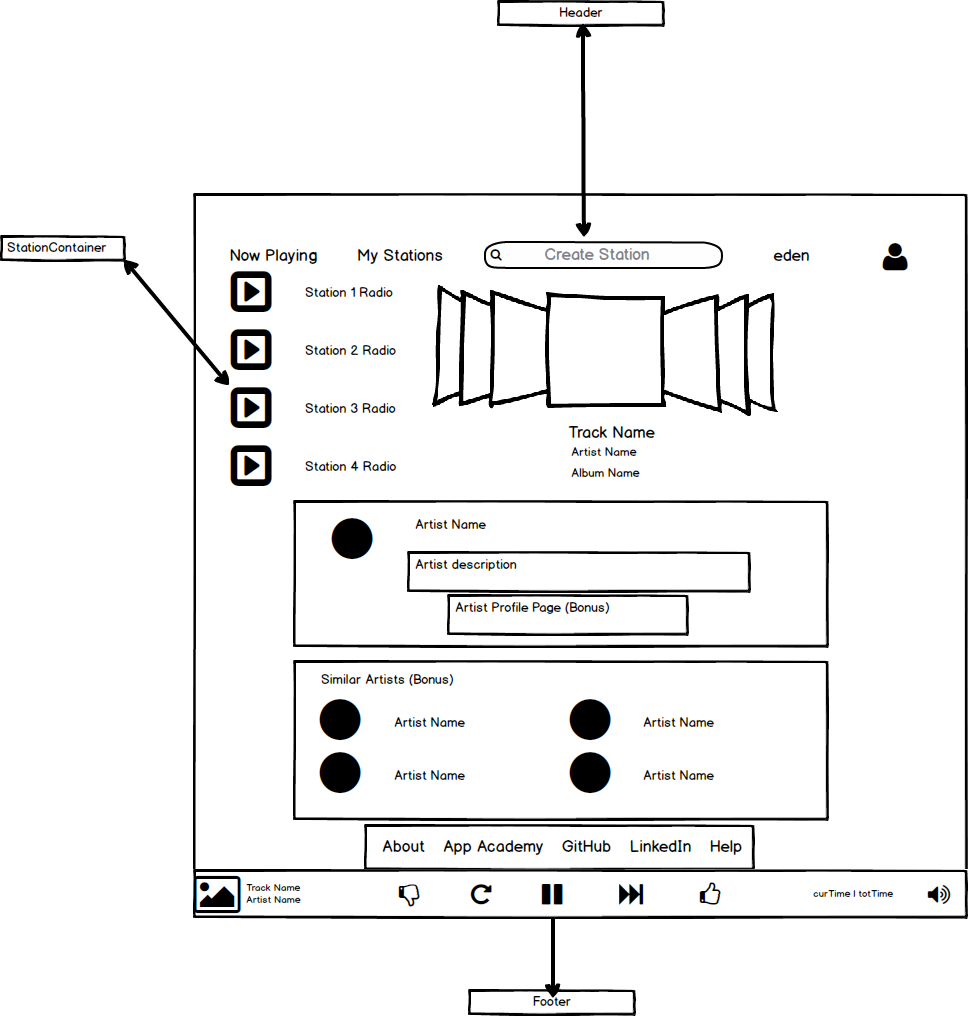
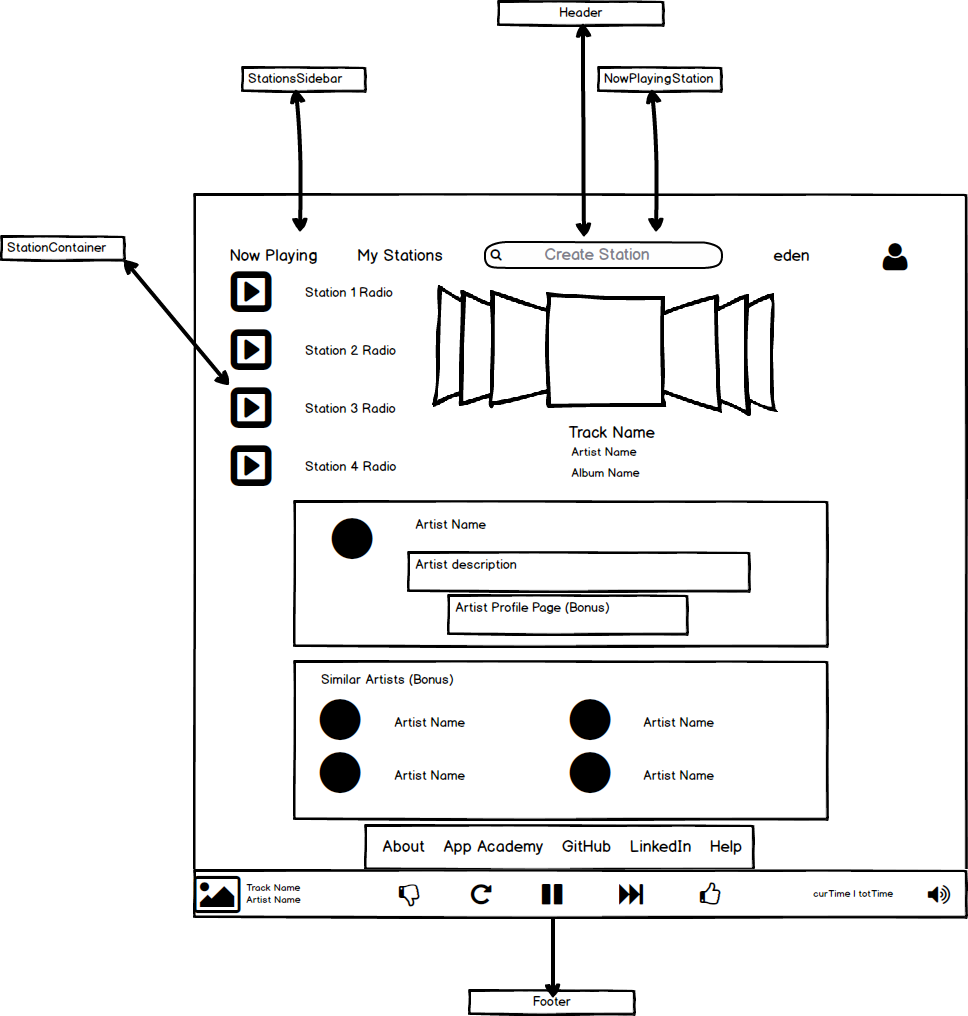
Update components

Changed region(s): [[0.6198, 0.061, 0.7438, 0.2441], [0.2479, 0.061, 0.4029, 0.122]]

diff --git a/frontend/entry.jsx b/frontend/entry.jsx
@@ -1,6 +1,13 @@
+// Libraries
 import React from 'react';
 import ReactDOM from 'react-dom';
 
+// Components
+import Root from './components/root';
+import configureStore from './store/store';
+
 document.addEventListener('DOMContentLoaded', () => {
-  console.log('yay im here');
+  const store = configureStore();
+  const root = document.getElementById('root');
+  return ReactDOM.render(<Root store={store} />, root);
 });

diff --git a/frontend/store/store.js b/frontend/store/store.js
@@ -1,0 +1,14 @@
+// Libraries
+import { createStore, applyMiddleware } from 'redux';
+import rootReducer from '../reducers/root_reducer';
+import thunk from 'redux-thunk';
+
+const configureStore = (preloadedState = {}) => (
+  createStore(
+    rootReducer,
+    preloadedState,
+    applyMiddleware(thunk)
+  )
+)
+
+export default configureStore

diff --git a/frontend/components/root.jsx b/frontend/components/root.jsx
@@ -1,0 +1,7 @@
+// Libraries
+import React from 'react';
+import { Provider } from 'react-redux';
+import { Router, Route, IndexRoute, hashHistory } from 'react-router';
+
+// Components
+import App from './app';

diff --git a/frontend/reducers/root_reducer.js b/frontend/reducers/root_reducer.js
@@ -1,0 +1,8 @@
+// Libraries
+import { combineReducers } from 'redux';
+
+const rootReducer = combineReducers({
+
+});
+
+export default rootReducer

diff --git a/frontend/components/app.jsx b/frontend/components/app.jsx
@@ -1,0 +1,3 @@
+// Libraries
+import React from 'react';
+import { Link } from 'react-router';

diff --git a/docs/schema.md b/docs/schema.md
@@ -9,68 +9,66 @@ email           | string    | not null, indexed, unique
 password_digest | string    | not null
 session_token   | string    | not null, indexed, unique
 
-## artists
+## stations
 column name | data type | details
 ------------|-----------|-----------------------
 id          | integer   | not null, primary key
-name        | string    | not null
-
-## albums
-column name | data type | details
-------------|-----------|-----------------------
-id          | integer   | not null, primary key
-artist_id   | integer   | not null, foreign key (references users), indexed
+user_id     | integer   | not null, foreign key (references user), indexed
 title       | string    | not null
 description | text      |
-genres      | string    | array, default: []
+
+## user_stations
+column name | data type | details
+------------|-----------|-----------------------
+id          | integer   | not null, primary key
+user_id     | integer   | not null, foreign key (references user), indexed
+station_id  | integer   | not null, foreign key (references station), indexed
 
 ## tracks
 column name | data type | details
 ------------|-----------|-----------------------
 id          | integer   | not null, primary key
-album_id    | integer   | not null, foreign key (references albums), indexed
+user_id     | integer   | not null, foreign key (references user), indexed
 title       | string    | not null
 description | text      |
-features    | string    | array, default: []
+
+## user_tracks
+column name | data type | details
+------------|-----------|-----------------------
+id          | integer   | not null, primary key
+user_id     | integer   | not null, foreign key (references user), indexed
+track_id    | integer   | not null, foreign key (references track), indexed
 
 ## likes
 column name | data type | details
 ------------|-----------|-----------------------
 id          | integer   | not null, primary key
 user_id     | integer   | not null, foreign key (references user), indexed
-track_id    | integer   | not null, foreign key (references tracks), indexed
+track_id    | integer   | not null, foreign key (references track), indexed
 
 ## genres
 column name | data type | details
 ------------|-----------|-----------------------
 id          | integer   | not null, primary key
 genre       | string    | not null
-album_id    | integer   | not null, foreign key (references album), indexed
 
-## features
+## track_genres
 column name | data type | details
 ------------|-----------|-----------------------
 id          | integer   | not null, primary key
-feature     | string    | not null
-track_id    | integer   | not null, foreign key (references track), indexed
+track_id    | string    | not null, foreign key (references track), indexed
+genre_id    | integer   | not null, foreign key (references genre), indexed
 
-## artist_bookmarks
+## user_bookmarks
 column name -----| data type | details
 -----------------|-----------|-----------------------
 id               | integer   | not null, primary key
 user_id          | integer   | not null, foreign key (references user), indexed
-artist_id        | integer   | not null, foreign key (references artists), indexed
-
-## album_bookmarks
-column name -----| data type | details
------------------|-----------|-----------------------
-id               | integer   | not null, primary key
-user_id          | integer   | not null, foreign key (references user), indexed
-album_id         | integer   | not null, foreign key (references albums), indexed
+artist_id        | integer   | not null, foreign key (references artist), indexed
 
 ## track_bookmarks
 column name -----| data type | details
 -----------------|-----------|-----------------------
 id               | integer   | not null, primary key
 user_id          | integer   | not null, foreign key (references user), indexed
-track_id         | integer   | not null, foreign key (references tracks), indexed
+track_id         | integer   | not null, foreign key (references track), indexed

diff --git a/docs/component-hierarchy.md b/docs/component-hierarchy.md
@@ -1,58 +1,43 @@
 ## Component Hierarchy
 
-**SearchResultsContainer**
-- Search
-- StationIndex
+**SearchContainer**
+- SearchBar
+- SearchResultsContainer
+  + StationsIndex
 
  **Footer**
  - Navbar
- - Playbar
+ - PlaybarContainer
+   + CurrentTrack
+   + ControlButtons
 
  **Header**
  - AuthFormContainer
    + AuthForm
  - HeaderBar
-   + SearchResultsContainer
+   + SearchContainer
 
 **HomeContainer**
  - Home
- - Sidebar
- - SearchResultsContainer
- - Footer
+ - HomeSidebar
 
-**ArtistProfileContainer**
- - ArtistProfile
- - Footer
-
-**AlbumProfileContainer**
- - AlbumProfile
- - TracksContainer
-   + Tracks
- - Footer
-
-**TrackProfileContainer**
- - TrackProfile
- - Footer
+**StationContainer**
+ - StationsSidebar
+ - NowPlayingStation
 
 **UserProfileContainer**
- - Heaader
+ - ProfileSidebar
+ - ProfileContainer
+   + Bio
+   + UserStationsContainer
+     - UserStations
+   + SimilarArtistsContainer
+     - SimilarArtists
  - UserLikesContainer
    + UserLikesIndex
  - BookmarksContainer
    + BookmarksIndex
- - Footer
 
-**UserStationsContainer**
-- UserStations
-
-**StationContainer**
-- Header
-- LikesContainer
-  + Likes
-- TracksContainer
-  + Tracks
- - SearchResultsContainer
- - Footer
 
 ## Routes
 
@@ -61,9 +46,8 @@
 | "/sign-up" | "AuthFormContainer" |
 | "/sign-in" | "AuthFormContainer" |
 | "/" | "HomeContainer" |
-| "/stations" | "UserStationsContainer" |
+| "/users/:userName" | "UserProfileContainer" |
 | "/station/:stationId" | "StationContainer" |
-| "/artist/:artistName" | "ArtistProfileContainer" |
-| "/artist/:artistName/:albumName" | "AlbumProfileContainer" |
-| "/artist/:artistName/:albumName/:trackName" | "TrackProfileContainer" |
-| "/artist/:artistId" | "ArtistProfileContainer" |
+| "/track/:trackId" | "TrackContainer" |
+| "/new-track" | "NewTrackContainer" |
+| "/search-results" | "SearchResultsContainer" |

diff --git a/docs/README.md b/docs/README.md
@@ -21,24 +21,28 @@ Eden allows users to:
 
 ### Phase 1: Backend setup and Front End User Authentication (1 day)
 
-**Objective:** Functioning rails project with front-end Authentication
+**Objective:** Functioning rails project with front-end authentication
 
-### Phase 2: Albums, Artists and Tracks: API, Components and Hosting (3 days)
+### Phase 2: Artists and Tracks: API, Components and Hosting (2 days)
 
-**Objective:** Albums, Artists and Tracks can all be accessed through API and hosted on Amazon S3.
+**Objective:** Functional artist and track components with tracks hosted
+on Amazon S3.
 
-### Phase 3: Playbar (2 days)
-
-**Objective:** Allow users to stream tracks uninterrupted.
-
-### Phase 4: - Search (Stations) (2 days)
+### Phase 3: - Search (Stations) (3 days)
 
 **Objective:** Generate stations by artist, song or genre
 
-### Phase 5: Likes and Bookmarks (2 days)
+### Phase 4: Playbar (2 days)
+
+**Objective:** Allow users to stream tracks uninterrupted.
+
+### Phase 5: Likes and Bookmarks (1 day)
 
 **Objective:** Allow users to like and bookmark albums, artists and tracks
 
+### Phase 6: Cleanup (1 day)
+
+**Objective:** Style enhancements and Production README
 
 ### Bonus Features (TBD)
 - [ ] Find similar artists

diff --git a/docs/api-endpoints.md b/docs/api-endpoints.md
@@ -20,34 +20,24 @@
 
 ### Stations
 - `GET /api/stations/:stationId`
-
-### Artists
-
-- `GET /api/artists/:artistId`
-
-### Albums
-
-- `GET /api/artists/:artistId/albums/:albumId`
+- `GET /api/users/:userId/stations`
 
 ### Tracks
 
-- `GET /api/artists/:artistId/albums/:albumId/tracks/:trackId`
+- `GET /api/users/:userId/tracks/:trackId`
+- `POST /api/users/:userId/tracks`
 
 ### Likes
 
-- `POST /api/artists/:artistId/albums/:albumId/tracks/:trackId/likes`
+- `POST /api/users/:userId/tracks/:trackId/likes`
+- `DELETE /api/users/:userId/tracks/:trackId/likes`
 
 ### Artist Bookmarks
 
-- `POST /api/artists/:artistId/bookmarks`
-- `DELETE /api/artists/:artistId/bookmarks`
-
-### Album Bookmarks
-
-- `POST /api/artists/:artistId/albums/:albumId/bookmarks`
-- `DELETE /api/artists/:artistId/albums/:albumId/bookmarks`
+- `POST /api/users/:userId/bookmarks`
+- `DELETE /api/users/:userId/bookmarks`
 
 ### Track Bookmarks
 
-- `POST /api/artists/:artistId/albums/:albumId/tracks/:trackId/bookmarks`
-- `DELETE /api/artists/:artistId/albums/:albumId/tracks/:trackId/bookmarks`
+- `POST /api/users/:userId/tracks/:trackId/bookmarks`
+- `DELETE /api/users/:userId/tracks/:trackId/bookmarks`

diff --git a/docs/sample-state.md b/docs/sample-state.md
@@ -11,21 +11,12 @@
     1: {
       id: 1,
       name: "Maroon 5",
-      albums: {
+      tracks: {
         1: {
           id: 1,
-          artist_id: 1,
-          title: "V",
-          description: "Another hit album",
-          genres: ["Pop", "R&B"],
-          tracks: {
-            1: {
-              id: 1,
-              album_id: 1,
-              title: "Maps",
-              description: "Another hit song"
-            }
-          }
+          album_id: 1,
+          title: "Maps",
+          description: "Another hit song"
         }
       }
     }
